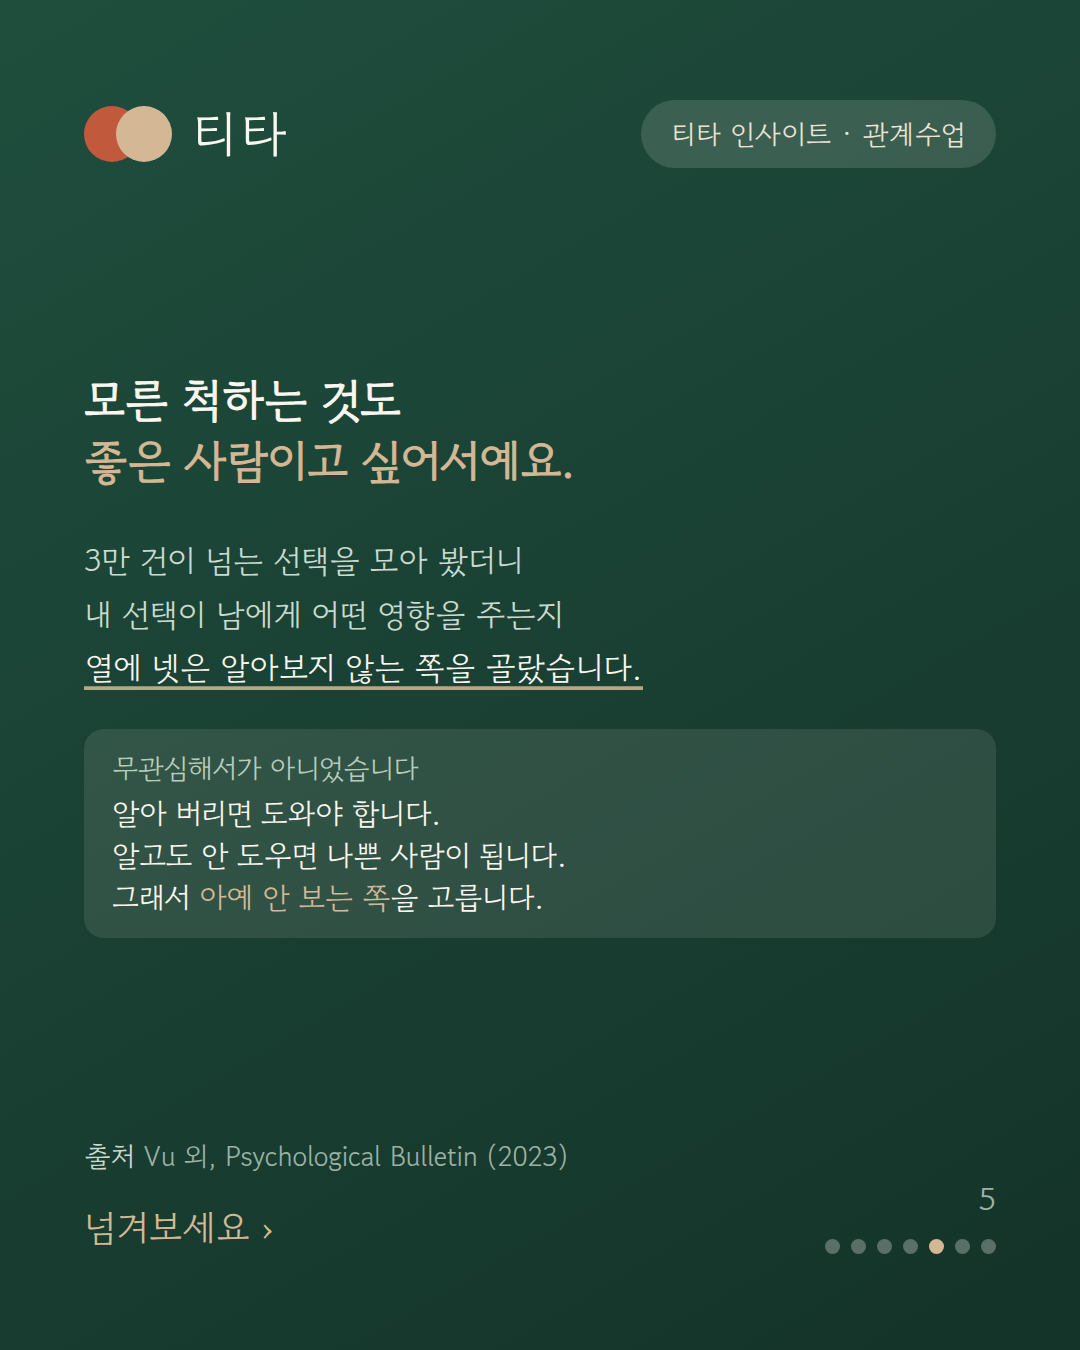
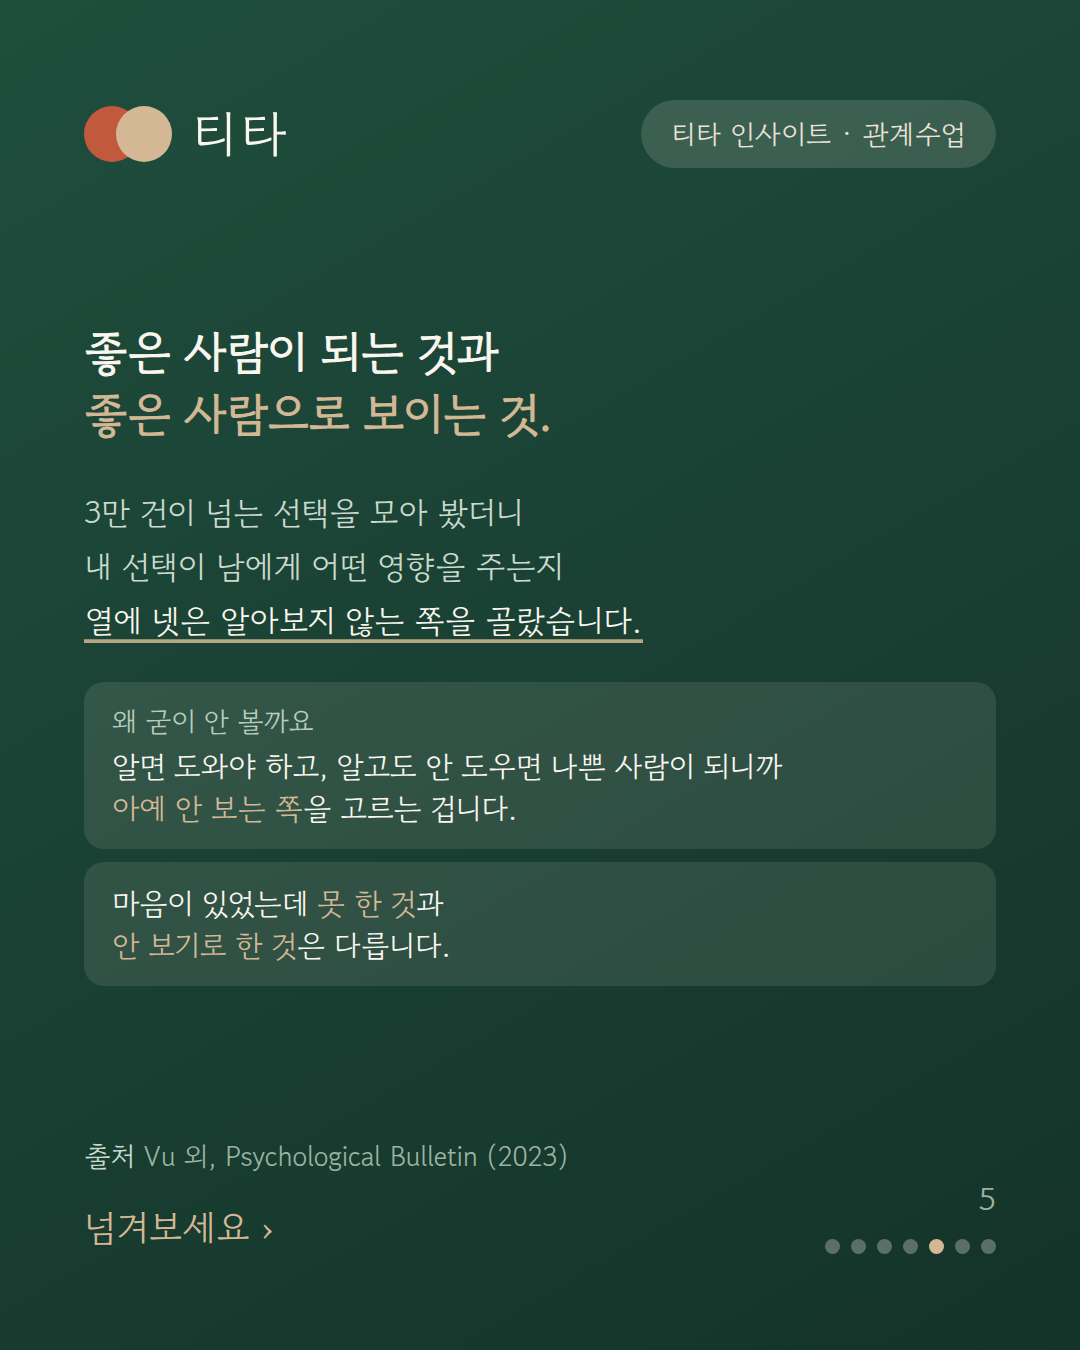
fix(blog): 의도적 무지 대목이 면죄부로 읽히던 걸 바로잡는다
Vu 외(2023)는 이걸 '핑계 찾기'로 봤는데 내가 '좋은 사람이고 싶어서'로
좋게 돌려 읽었다. 원 해석대로 되돌리고, 감싸는 대신 선을 긋는 데 쓴다.
나서고 싶은데 몸이 안 움직인 것과 아예 안 보기로 한 것을 갈라 놓아야
앞의 '마음은 있었다'가 면죄부가 되지 않는다.

Claude-Session: https://claude.ai/code/session_01SVoaR1M7XWjiBzTKquaj1d

Changed region(s): [[0.0611, 0.2489, 0.7333, 0.7156]]

diff --git a/src/app/blog/posts.ts b/src/app/blog/posts.ts
@@ -165,10 +165,10 @@ export const POSTS: BlogPost[] = [
         type: "callout",
         text: "무심해 보이는 자리는, 다들 마음을 숨긴 채 서로를 살피고 있는 자리일 수 있습니다.",
       },
-      { type: "h2", text: "모른 척하는 것도, 좋은 사람이고 싶어서입니다" },
+      { type: "h2", text: "다만, 아예 눈을 돌리는 건 다릅니다" },
       {
         type: "p",
-        text: "그래도 일부러 눈을 돌리는 경우는 있지 않을까요. 있습니다. 그런데 그 이유가 뜻밖이었습니다.",
+        text: "여기까지는 **나서고 싶은데 몸이 안 움직인** 경우입니다. 그런데 아예 눈을 돌려 버리는 경우도 있습니다. 이건 이야기가 다릅니다.",
       },
       {
         type: "p",
@@ -176,11 +176,15 @@ export const POSTS: BlogPost[] = [
       },
       {
         type: "p",
-        text: "무관심해서가 아니었습니다. **좋은 사람으로 남고 싶어서**였습니다. 알아 버리면 도와야 합니다. 알고도 안 도우면 나쁜 사람이 됩니다. 그래서 아예 안 보는 쪽을 고릅니다.",
+        text: "연구자들은 이걸 **핑계를 만드는 행동**으로 봤습니다. 알아 버리면 도와야 합니다. 알고도 안 도우면 나쁜 사람이 됩니다. 그래서 **아예 안 보는 쪽**을 고릅니다. 모르면 안 도와도 되니까요.",
       },
       {
         type: "callout",
-        text: "모른 척하는 행동의 밑바닥에도 좋은 사람이고 싶은 마음이 깔려 있습니다.",
+        text: "좋은 사람이 되는 것과, 좋은 사람으로 보이는 걸 지키는 것은 다릅니다.",
+      },
+      {
+        type: "p",
+        text: "그러니 이 글은 면죄부가 아닙니다. **마음이 있었는데 못 한 것과, 마음 쓰지 않기로 한 것은 다릅니다.** 앞은 이해할 일이고 뒤는 그렇지 않습니다. 다행히 대부분은 앞쪽입니다.",
       },
       { type: "h2", text: "온라인도 다르지 않습니다" },
       {
@@ -231,7 +235,7 @@ export const POSTS: BlogPost[] = [
       },
       {
         type: "p",
-        text: "여기까지 읽으셨다면, 아마 모른 척하는 쪽은 아닐 겁니다. **읽고 마음이 움직였는데 손이 안 나갔던 쪽**에 가깝겠지요. ‘내가 뭐라고 아는 척을 하나.’ ‘이미 누가 답했겠지.’ ‘올린 지 좀 됐는데 지금 달면 이상한가.’ 그렇게 창을 닫아 본 적이 있으실 겁니다.",
+        text: "여기까지 읽으셨다면, 아마 눈을 돌리는 쪽은 아닐 겁니다. **읽고 마음이 움직였는데 손이 안 나갔던 쪽**에 가깝겠지요. ‘내가 뭐라고 아는 척을 하나.’ ‘이미 누가 답했겠지.’ ‘올린 지 좀 됐는데 지금 달면 이상한가.’ 그렇게 창을 닫아 본 적이 있으실 겁니다.",
       },
       {
         type: "p",
@@ -266,7 +270,7 @@ export const POSTS: BlogPost[] = [
       },
       {
         label:
-          "Vu, Soraperra, Leib, van der Weele & Shalvi, 「Ignorance by Choice」 (Psychological Bulletin, 2023) — 6,531명의 33,603건 선택을 모은 메타분석. 40%가 자기 선택이 남에게 미치는 영향을 알아볼 수 있는데도 알아보지 않기를 택했다. 저자들은 이를 좋은 자기 이미지를 지키려는 동기로 해석했다",
+          "Vu, Soraperra, Leib, van der Weele & Shalvi, 「Ignorance by Choice」 (Psychological Bulletin, 2023) — 6,531명의 33,603건 선택을 모은 메타분석. 40%가 자기 선택이 남에게 미치는 영향을 알아볼 수 있는데도 알아보지 않기를 택했고, 정보가 주어졌을 때보다 이타적 행동이 15.6%p 낮았다. 저자들은 이를 좋은 자기 이미지를 지키기 위한 핑계 찾기로 해석했다",
         url: "https://www.apa.org/pubs/journals/releases/bul-bul0000398.pdf",
       },
       {
@@ -296,7 +300,7 @@ export const POSTS: BlogPost[] = [
       },
       {
         q: "일부러 모른 척하는 경우도 있지 않나요?",
-        a: "있습니다. 다만 이유가 뜻밖입니다. 3만 건이 넘는 선택을 모은 2023년 메타분석에서 40%는 자기 선택이 남에게 미치는 영향을 알아볼 수 있는데도 알아보지 않기를 택했는데, 연구자들은 이를 좋은 사람이라는 자기 이미지를 지키려는 동기로 해석했습니다. 알면 도와야 하고 알고도 안 도우면 나쁜 사람이 되니 아예 안 보는 쪽을 고르는 것입니다.",
+        a: "있습니다. 3만 건이 넘는 선택을 모은 2023년 메타분석에서 40%는 자기 선택이 남에게 미치는 영향을 알아볼 수 있는데도 알아보지 않기를 택했고, 그만큼 이타적 행동도 줄었습니다. 연구자들은 이를 핑계를 만드는 행동으로 해석했습니다. 알면 도와야 하고 알고도 안 도우면 나쁜 사람이 되니 아예 안 보는 것입니다. 다만 이건 나서고 싶은데 몸이 안 움직인 경우와는 구분해야 합니다. 못 한 것과 안 보기로 한 것은 다릅니다.",
       },
       {
         q: "댓글 하나가 정말 차이를 만드나요?",
